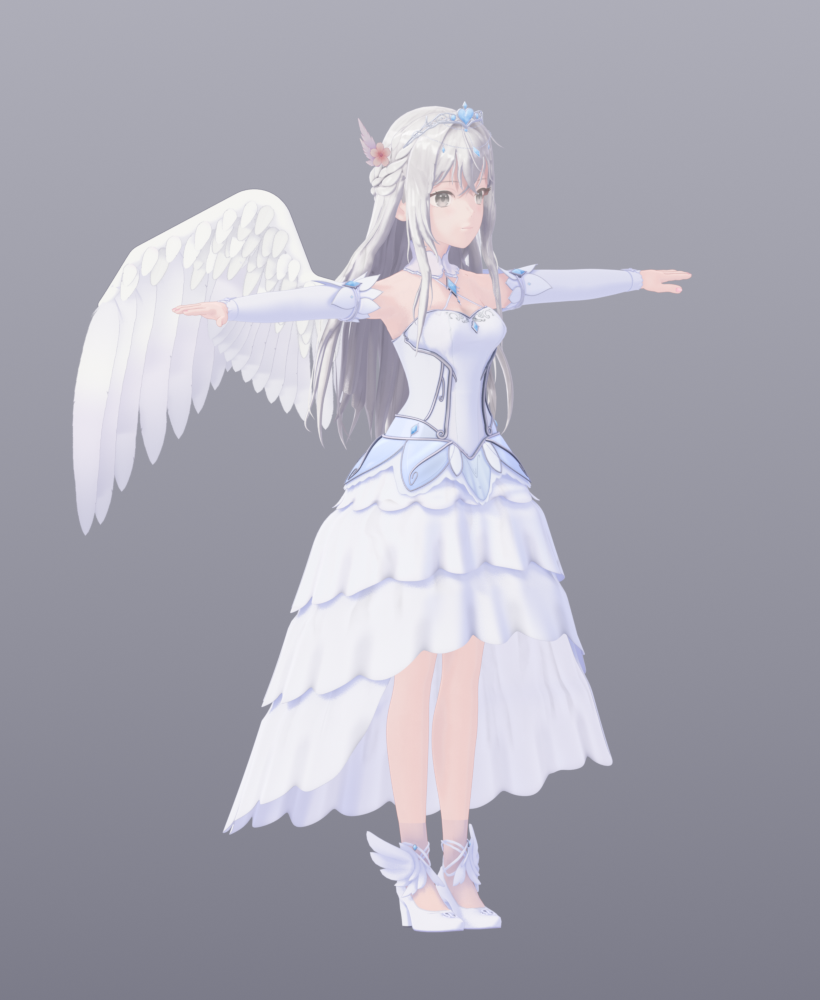
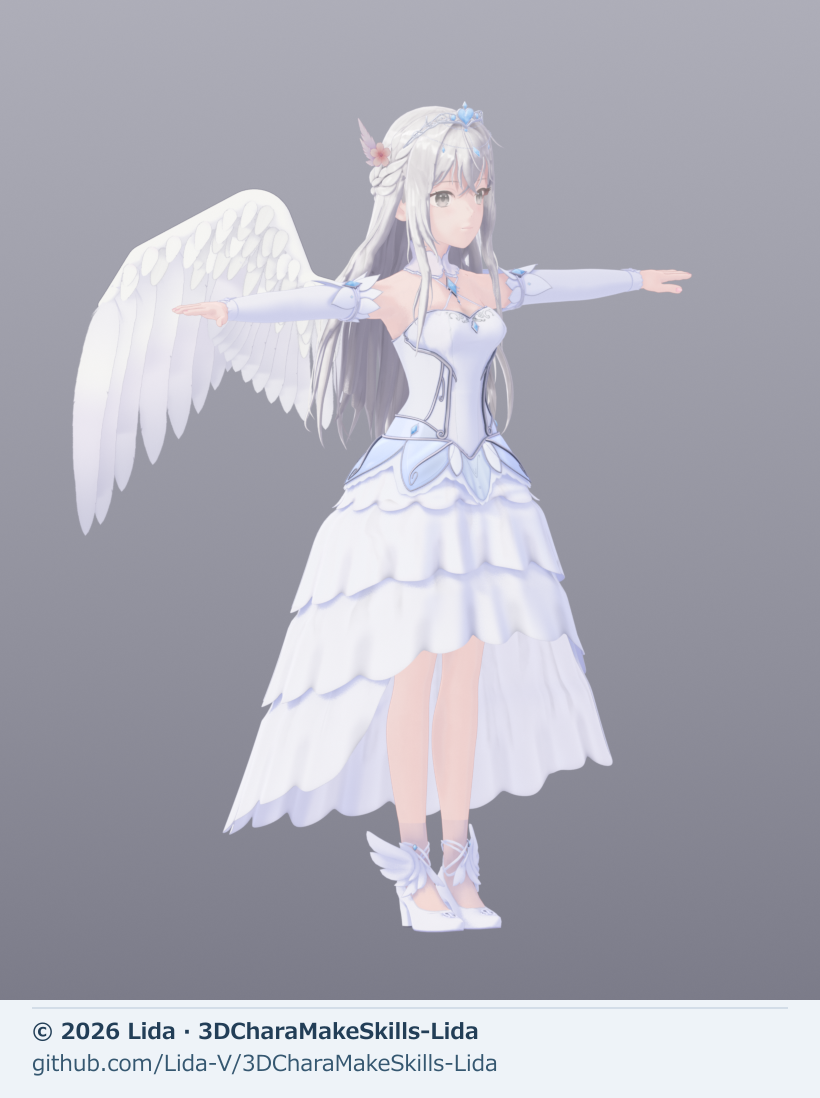
docs: retain attribution on model previews and link credited video

Changed region(s): [[0.0, 0.093, 1.0, 1.0], [0.0915, 0.248, 0.1524, 0.372]]

diff --git a/media/README.md b/media/README.md
@@ -4,14 +4,18 @@
 
 | 掲載物 | 確認できるもの |
 | --- | --- |
-| `lida-finished-body.png`（820×1000） | 斜めからの全身。多段衣装・髪・翼・装飾・靴 |
-| `lida-finished-face.png`（820×1000） | 正面のバストアップ。顔・髪・冠・襟・胸元の装飾 |
-| [lida-model-turntable.mp4](https://github.com/Lida-V/3DCharaMakeSkills-Lida/releases/download/v1.0.2/lida-model-turntable.mp4)（Release添付） | 10秒・1448×900・24fps・音声なし。全身の回転と笑顔・驚き・口型「あ」・瞬き |
+| `lida-finished-body.png`（820×1098） | 斜めからの全身。多段衣装・髪・翼・装飾・靴。元画像820×1000と下部の出典帯 |
+| `lida-finished-face.png`（820×1098） | 正面のバストアップ。顔・髪・冠・襟・胸元の装飾。元画像820×1000と下部の出典帯 |
+| [lida-model-turntable-attributed.mp4](https://github.com/Lida-V/3DCharaMakeSkills-Lida/releases/download/v1.2.2/lida-model-turntable-attributed.mp4)（Release添付） | 10秒・1448×984・24fps・240フレーム・音声なし。全身の回転と笑顔・驚き・口型「あ」・瞬き。元画角1448×900と下部の出典帯 |
 
 基準画像とTripo等の生成モデルから、形状・表情キー・骨とスキンウェイト・衣装や髪や翼の追従・トゥーン材質を調整した制作例です。各工程の試行錯誤を含む仕上がりで、初回生成だけの結果や同じ品質を自動保証する見本ではありません。
 
 表示条件はBlender 5.2.1 LTS／EEVEE、制作モデル内のLidaSoftToon、灰色背景、Standard変換・露出0です。全身は斜めの正投影、顔は正面のバストアップ。別配布の汎用アドオンやUnity／UEへ適用しただけで、同じ外観になることを示す画像ではありません。
 
-PNGは表示に不要な撮影情報とローカルパスを除き、画素と色の表示情報を保持しました。顔や体型、明るさを画像加工で補正していません。動画はカメラ周回と既存の表情キーによるもので、参考ダンスFBXを使っていません。
+PNGは表示に不要な撮影情報とローカルパスを除いた元画像を台紙に配置し、下98pxの余白へ「© 2026 Lida · 3DCharaMakeSkills-Lida」と配布元URLを追加しました。元画像820×1000の画素領域と色の表示情報は完全一致を確認しています。顔や体型、明るさを画像加工で補正していません。
+
+動画は元の1448×900の全画角を残し、下84pxへ「© 2026 Lida」と配布元URLを常時表示する版です。再エンコードを含むため、元動画との画素完全一致は示しません。カメラ周回と既存の表情キーによるもので、参考ダンスFBXは使っていません。
+
+出典帯は資料単体でも出所をたどるための表示です。配布元は [3DCharaMakeSkills-Lida](https://github.com/Lida-V/3DCharaMakeSkills-Lida)。商用利用を含む従来の利用条件は変更していません。
 
 配布するのは紹介画像・動画と制作ノウハウです。モデルデータやキャラクターデザインの利用許可とは別です。[配布条件](../LICENSE-POLICY.md)を参照してください。
